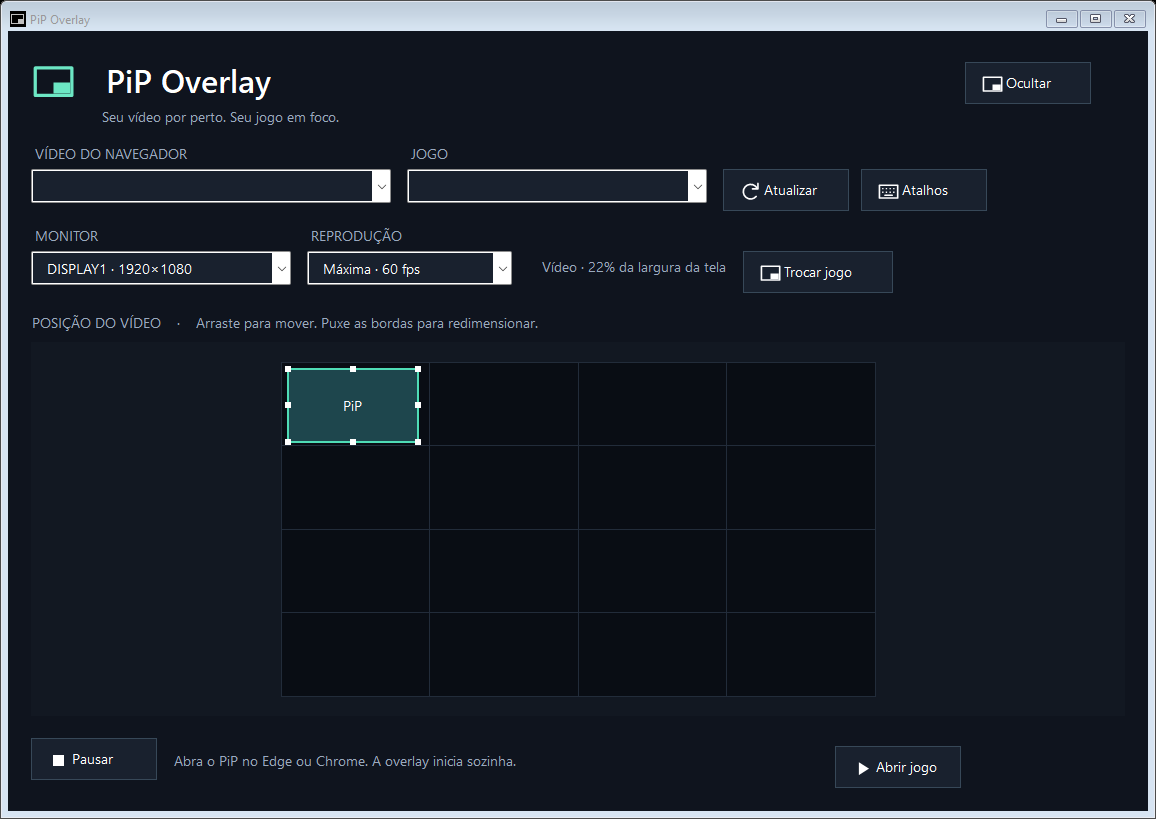
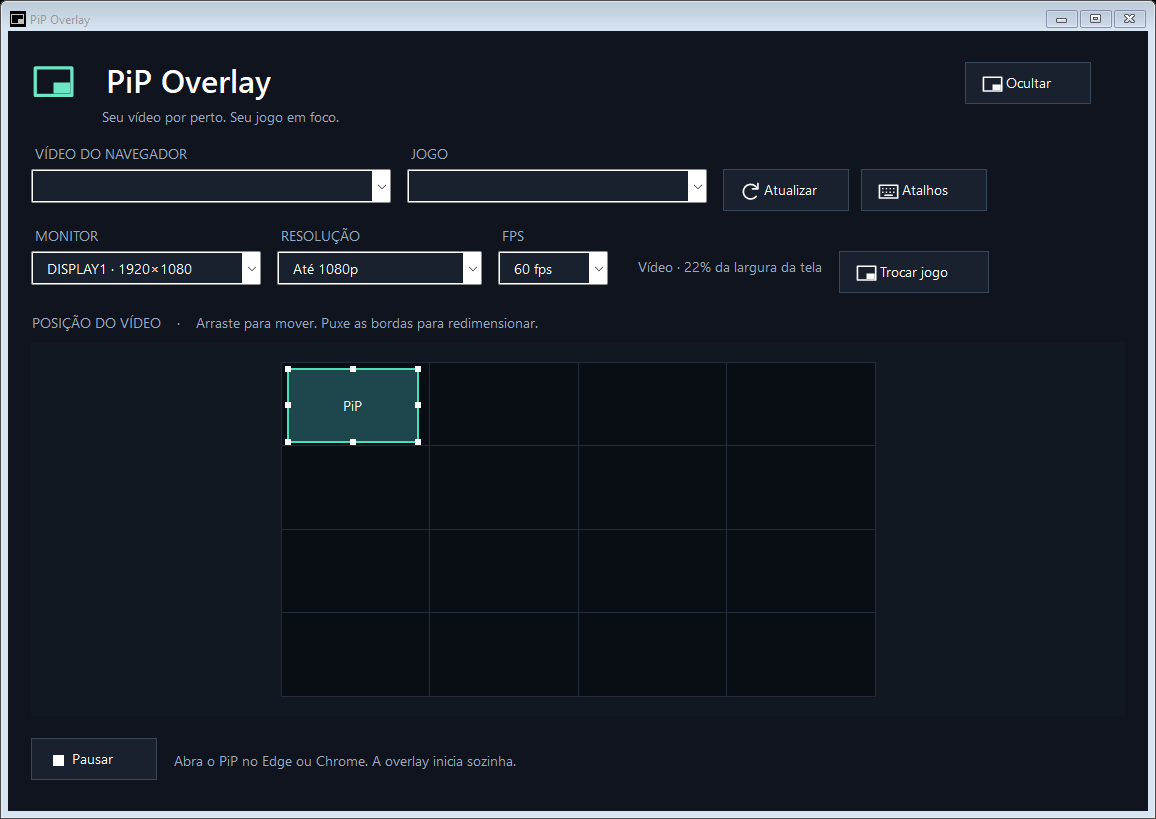
feat: separate resolution and frame rate and adopt MIT license

Changed region(s): [[0.1869, 0.2747, 0.8097, 0.3663], [0.7163, 0.9158, 0.8097, 0.9463]]

diff --git a/src/MainForm.cs b/src/MainForm.cs
@@ -3,8 +3,9 @@ namespace PipOverlay;
 internal sealed class MainForm : Form
 {
     readonly ComboBox sources=new(){DropDownStyle=ComboBoxStyle.DropDownList,Width=360};
-    readonly ComboBox monitors=new(){DropDownStyle=ComboBoxStyle.DropDownList,Width=260};
-    readonly ComboBox quality=new(){DropDownStyle=ComboBoxStyle.DropDownList,Width=165};
+    readonly ComboBox monitors=new(){DropDownStyle=ComboBoxStyle.DropDownList,Width=220};
+    readonly ComboBox quality=new(){DropDownStyle=ComboBoxStyle.DropDownList,Width=180};
+    readonly ComboBox frameRate=new(){DropDownStyle=ComboBoxStyle.DropDownList,Width=90};
     readonly ComboBox targets=new(){DropDownStyle=ComboBoxStyle.DropDownList,Width=260};
     readonly LayoutEditor editor=new(){Dock=DockStyle.Fill};
     readonly Label status=new(){AutoSize=true,ForeColor=Color.Silver},dimensions=new(){AutoSize=true,ForeColor=Color.Silver};
@@ -42,11 +43,12 @@ internal sealed class MainForm : Form
         var header=new TableLayoutPanel{Dock=DockStyle.Fill,ColumnCount=2,RowCount=1};header.ColumnStyles.Add(new(SizeType.Absolute,64));header.ColumnStyles.Add(new(SizeType.Percent,100));
         header.Controls.Add(new PictureBox{Image=UiTheme.Icon("pip",UiTheme.Accent,44),Size=new Size(48,48),Margin=new Padding(0,6,0,0)});
         var heading=new FlowLayoutPanel{Dock=DockStyle.Fill,FlowDirection=FlowDirection.TopDown,WrapContents=false};heading.Controls.Add(new Label{Text="PiP Overlay",AutoSize=true,Font=new Font("Segoe UI Semibold",24),Margin=Padding.Empty});heading.Controls.Add(new Label{Text="Seu vídeo por perto. Seu jogo em foco.",AutoSize=true,ForeColor=UiTheme.Muted,Margin=new Padding(0,5,0,0)});header.Controls.Add(heading);layout.Controls.Add(header,0,0);
-        foreach(var box in new[]{sources,targets,monitors,quality})UiTheme.Combo(box);
+        foreach(var box in new[]{sources,targets,monitors,quality,frameRate})UiTheme.Combo(box);
         var toolbar=new FlowLayoutPanel{Dock=DockStyle.Fill,WrapContents=false};toolbar.Controls.Add(UiTheme.Field("VÍDEO DO NAVEGADOR",sources,360));toolbar.Controls.Add(UiTheme.Field("JOGO",targets,300));
         var refresh=new Button{AccessibleName="Atualizar vídeos e jogos"};UiTheme.Button(refresh,"Atualizar","refresh");refresh.Margin=new Padding(0,25,0,0);refresh.Click+=(_,_)=>{automatic.Reset();Discover();};toolbar.Controls.Add(refresh);layout.Controls.Add(toolbar,0,1);
-        quality.Items.AddRange(new object[]{"Máxima · 60 fps","Equilibrada · 30 fps","Econômica · 15 fps"});quality.SelectedIndex=settings.Quality=="economy"?2:settings.Quality=="balanced"?1:0;
-        var options=new FlowLayoutPanel{Dock=DockStyle.Fill,WrapContents=false};options.Controls.Add(UiTheme.Field("MONITOR",monitors,260));options.Controls.Add(UiTheme.Field("REPRODUÇÃO",quality,205));dimensions.Margin=new Padding(10,31,0,0);dimensions.ForeColor=UiTheme.Muted;options.Controls.Add(dimensions);layout.Controls.Add(options,0,2);
+        quality.Items.AddRange(new object[]{"Até 1080p","Até 720p","Até 480p","Adaptar ao tamanho"});quality.SelectedIndex=settings.Validated().Resolution switch{"720p"=>1,"480p"=>2,"auto"=>3,_=>0};
+        frameRate.Items.AddRange(new object[]{"60 fps","30 fps","15 fps"});frameRate.SelectedIndex=settings.FramesPerSecond==15?2:settings.FramesPerSecond==30?1:0;
+        var options=new FlowLayoutPanel{Dock=DockStyle.Fill,WrapContents=false};options.Controls.Add(UiTheme.Field("MONITOR",monitors,230));options.Controls.Add(UiTheme.Field("RESOLUÇÃO",quality,205));options.Controls.Add(UiTheme.Field("FPS",frameRate,110));dimensions.Margin=new Padding(10,31,0,0);dimensions.ForeColor=UiTheme.Muted;options.Controls.Add(dimensions);layout.Controls.Add(options,0,2);
         layout.Controls.Add(new Label{Text="POSIÇÃO DO VÍDEO    ·    Arraste para mover. Puxe as bordas para redimensionar.",AutoSize=true,ForeColor=UiTheme.Muted,Margin=new Padding(0,12,0,0)},0,3);layout.Controls.Add(editor,0,4);
         var footer=new FlowLayoutPanel{Dock=DockStyle.Fill,WrapContents=false,Padding=new Padding(0,16,0,0)};UiTheme.Button(start,"Retomar","play",true);UiTheme.Button(stop,"Pausar","stop");status.AutoSize=false;status.Size=new Size(650,44);status.TextAlign=ContentAlignment.MiddleLeft;status.ForeColor=UiTheme.Muted;footer.Controls.Add(start);footer.Controls.Add(stop);footer.Controls.Add(status);layout.Controls.Add(footer,0,5);
         toolbar.Visible=options.Visible=false;layout.RowStyles[1].Height=0;layout.RowStyles[2].Height=0;
@@ -58,7 +60,8 @@ internal sealed class MainForm : Form
         editor.LayoutChanged+=box=>{settings=settings with {X=box.X,Y=box.Y,Width=box.Width,Height=box.Height};Apply();};
         monitors.SelectedIndexChanged+=(_,_)=>{Stop("");automatic.Reset();UpdateCanvas();Discover();};
         sources.SelectedIndexChanged+=(_,_)=>{if(refreshing)return;Stop("");automatic.Reset();PreviewSelection();Discover();};
-        quality.SelectedIndexChanged+=(_,_)=>{settings=settings with {Quality=quality.SelectedIndex==2?"economy":quality.SelectedIndex==1?"balanced":"maximum",FramesPerSecond=quality.SelectedIndex==2?15:quality.SelectedIndex==1?30:60};Apply();};
+        quality.SelectedIndexChanged+=(_,_)=>{settings=settings with {Resolution=quality.SelectedIndex switch{1=>"720p",2=>"480p",3=>"auto",_=>"1080p"}};Apply();};
+        frameRate.SelectedIndexChanged+=(_,_)=>{settings=settings with {FramesPerSecond=frameRate.SelectedIndex==2?15:frameRate.SelectedIndex==1?30:60};Apply();};
         start.Click+=(_,_)=>ResumeAutomatic();stop.Click+=(_,_)=>PauseAutomatic();
         pulse.Tick+=(_,_)=>Poll();save.Tick+=(_,_)=>{save.Stop();Save();};
         targets.SelectedIndexChanged+=(_,_)=>{if(refreshing)return;Stop("");automatic.Reset();Discover();};
@@ -68,8 +71,9 @@ internal sealed class MainForm : Form
         tray.Icon=Icon;tray.Text="PiP Overlay · automático";tray.Visible=!designPreview;
         VisibleChanged+=(_,_)=>{if(!Visible)editor.DetachSource();else PreviewSelection();};
         var menu=new ContextMenuStrip();menu.Items.Add("Ajustar posição e tamanho",null,(_,_)=>ShowEditor());menu.Items.Add("Retomar",null,(_,_)=>ResumeAutomatic());menu.Items.Add("Pausar",null,(_,_)=>PauseAutomatic());menu.Items.Add("Sair",null,(_,_)=>{exiting=true;Close();});tray.ContextMenuStrip=menu;tray.DoubleClick+=(_,_)=>ShowEditor();
-        var launchGame=new Button{AccessibleName="Abrir seu jogo com PiP"};UiTheme.Button(launchGame,"Abrir jogo","play");launchGame.Margin=new Padding(12,8,0,0);footer.Controls.Add(launchGame);launchGame.Click+=async (_,_)=>{try{if(!File.Exists(settings.GameExecutable)){using var picker=new OpenFileDialog{Filter="Jogo Windows (*.exe)|*.exe",Title="Escolha o executável do seu jogo"};if(picker.ShowDialog(this)!=DialogResult.OK)return;settings.GameExecutable=picker.FileName;Save();}launchGame.Enabled=false;status.Text="Preparando seu jogo…";await GameLauncher.Launch(settings.GameExecutable);automatic.Reset();Discover();}catch(Exception ex){status.Text=ex.Message;}finally{launchGame.Enabled=true;}};
-        var chooseGame=new Button();UiTheme.Button(chooseGame,"Trocar jogo","pip");chooseGame.Width=150;chooseGame.Margin=new Padding(12,25,0,0);options.Controls.Add(chooseGame);chooseGame.Click+=(_,_)=>{using var picker=new OpenFileDialog{Filter="Jogo Windows (*.exe)|*.exe"};if(picker.ShowDialog(this)==DialogResult.OK){settings.GameExecutable=picker.FileName;Save();status.Text="Jogo selecionado. Clique em Abrir jogo.";}};
+        var launchGame=new ToolStripMenuItem("Iniciar jogo configurado");menu.Items.Insert(0,launchGame);
+        launchGame.Click+=async (_,_)=>{try{if(!File.Exists(settings.GameExecutable)){ShowEditor();using var picker=new OpenFileDialog{Filter="Jogo Windows (*.exe)|*.exe",Title="Escolha o executável do seu jogo"};if(picker.ShowDialog(this)!=DialogResult.OK)return;settings.GameExecutable=picker.FileName;Save();}launchGame.Enabled=false;status.Text="Preparando seu jogo…";await GameLauncher.Launch(settings.GameExecutable);automatic.Reset();Discover();}catch(Exception ex){ShowEditor();status.Text=ex.Message;}finally{launchGame.Enabled=true;}};
+        var chooseGame=new Button();UiTheme.Button(chooseGame,"Trocar jogo","pip");chooseGame.Width=150;chooseGame.Margin=new Padding(12,25,0,0);options.Controls.Add(chooseGame);chooseGame.Click+=(_,_)=>{using var picker=new OpenFileDialog{Filter="Jogo Windows (*.exe)|*.exe"};if(picker.ShowDialog(this)==DialogResult.OK){settings.GameExecutable=picker.FileName;Save();status.Text="Jogo selecionado. A opção de iniciar fica no ícone perto do relógio.";}};
         var shortcuts=new Button{AccessibleName="Configurar atalhos de teclado"};UiTheme.Button(shortcuts,"Atalhos","keyboard");shortcuts.Margin=new Padding(12,25,0,0);toolbar.Controls.Add(shortcuts);shortcuts.Click+=(_,_)=>ConfigureShortcuts();
         Shown+=(_,_)=>{if(designPreview)return;hotkeys=new Hotkeys(Handle);Discover();if(!hotkeys.Apply(new(settings.StartShortcut),new(settings.StopShortcut),out var error))status.Text=error;};
         if(designPreview){save.Stop();exiting=true;ShowInTaskbar=false;StartPosition=FormStartPosition.Manual;Location=new Point(-20000,-20000);}
@@ -95,13 +99,13 @@ internal sealed class MainForm : Form
             if(automatic.TakeAttempt(source==null?null:$"{source.Handle}:{source.ProcessId}",target?.Pid,false))Start();
             else if(!automatic.Enabled)status.Text="Pausado · clique em Retomar quando quiser.";
             else if(source==null)status.Text="Abra o vídeo em PiP no Edge ou Chrome.";
-            else if(target==null)status.Text="Vídeo pronto · clique em Abrir jogo.";
+            else if(target==null)status.Text="Vídeo pronto · aguardando seu jogo.";
         }finally{refreshing=false;}
     }
     protected override void OnHandleDestroyed(EventArgs e){hotkeys?.Dispose();hotkeys=null;base.OnHandleDestroyed(e);}
     Screen SelectedScreen=>((MonitorItem?)monitors.SelectedItem)?.Screen??Screen.AllScreens[0];
     void UpdateCanvas(){editor.MonitorSize=SelectedScreen.Bounds.Size;settings=settings with {Monitor=SelectedScreen.DeviceName};var b=LayoutMath.Constrain(new(settings.X,settings.Y,settings.Width,settings.Height),editor.MonitorSize,editor.Aspect);settings=settings with{X=b.X,Y=b.Y,Width=b.Width,Height=b.Height};editor.Video=b;Apply();}
-    void Apply(){try{lease?.EnsureResolution(settings.Quality=="maximum"?new Size(1920,1080):null);}catch(System.ComponentModel.Win32Exception ex){Fail(ex.Message);}editor.Video=new(settings.X,settings.Y,settings.Width,settings.Height);editor.Invalidate();session?.Apply(settings);
+    void Apply(){try{lease?.EnsureResolution(settings.SourceResolution);}catch(System.ComponentModel.Win32Exception ex){Fail(ex.Message);}editor.Video=new(settings.X,settings.Y,settings.Width,settings.Height);editor.Invalidate();session?.Apply(settings);
         dimensions.Text=$"Vídeo · {100.0*settings.Width/editor.MonitorSize.Width:F0}% da largura da tela";
         save.Stop();save.Start();}
     void Save(){try{settings.Save(settingsPath);}catch(Exception e)when(e is IOException or UnauthorizedAccessException){status.Text="Não foi possível salvar: "+e.Message;}}
@@ -110,8 +114,8 @@ internal sealed class MainForm : Form
     void RefreshTargets(){Stop("");targets.Items.Clear();targets.Items.AddRange(GameLauncher.Targets().Concat(RenderTarget.Find().Where(x=>x.Name=="DigimonMasters")).DistinctBy(x=>x.Pid).ToArray());if(targets.Items.Count>0)targets.SelectedIndex=0;}
     void Start(){if(sources.SelectedItem is not WindowSource source){status.Text="Abra o vídeo em PiP no Edge ou Chrome.";return;}connectionFailed=false;Stop("");try{
         if(!source.Exists||Native.IsIconic(source.Handle))throw new InvalidOperationException("Restaure o PiP antes de iniciar.");
-        if(targets.SelectedItem is not RenderTarget target)throw new InvalidOperationException("Abra seu jogo e clique em Atualizar.");
-        lease=new SourceLease(source,settings.Quality=="maximum"?new Size(1920,1080):null);
+        if(targets.SelectedItem is not RenderTarget target)throw new InvalidOperationException("Abra seu jogo. Para novos renderizadores, use o menu do ícone perto do relógio.");
+        lease=new SourceLease(source,settings.SourceResolution);
         session=new GpuVideoSession(source,settings,editor.MonitorSize,target);editor.Aspect=(double)session.SourceSize.Width/session.SourceSize.Height;UpdateCanvas();editor.AttachSource(source.Handle);
         active=source;activeTarget=target.Pid;start.Enabled=false;stop.Enabled=true;elapsed.Restart();lastFrames=0;lastTick=Environment.TickCount64;pulse.Start();status.Text="Conectando ao vídeo…";
     }catch(Exception e){Fail(e.Message);}}

diff --git a/src/QualityTests.cs b/src/QualityTests.cs
@@ -3,10 +3,20 @@ internal static class QualityTests
 {
     internal static int Run(string report){
         var lines=new List<string>();int failures=0;void Check(string name,bool pass){lines.Add($"{(pass?"PASS":"FAIL")} {name}");if(!pass)failures++;}
-        Check("Maximum allows 60 fps",new Settings().Validated().FramesPerSecond==60);
-        Check("Balanced limits 30 fps",new Settings{Quality="balanced"}.Validated().FramesPerSecond==30);
-        Check("Economy limits 15 fps",new Settings{Quality="economy"}.Validated().FramesPerSecond==15);
-        Check("Unknown quality uses consistent maximum defaults",new Settings{Quality="invalid"}.Validated() is {Quality:"maximum",FramesPerSecond:60});
+        foreach(var resolution in new[]{"1080p","720p","480p","auto"})foreach(int fps in new[]{15,30,60}){
+            var value=new Settings{Resolution=resolution,FramesPerSecond=fps,Quality="economy"}.Validated();
+            var expected=resolution switch{"1080p"=>new Size(1920,1080),"720p"=>new Size(1280,720),"480p"=>new Size(854,480),_=>new Size(448,252)};
+            Check($"Independent {resolution} / {fps}",value.Resolution==resolution&&value.FramesPerSecond==fps&&value.CaptureResolution==expected);
+        }
+        Check("Invalid values recover",new Settings{Resolution="invalid",FramesPerSecond=0}.Validated() is {Resolution:"1080p",FramesPerSecond:30});
+        var legacy=System.Text.Json.JsonSerializer.Deserialize<Settings>("{\"Quality\":\"balanced\",\"FramesPerSecond\":30}")!.Validated();
+        Check("Legacy balanced preserves 30 fps and adaptive resolution",legacy is {Resolution:"auto",FramesPerSecond:30});
+        Check("Legacy maximum preserves resolution",new Settings{Quality="maximum",FramesPerSecond=60}.Validated() is {Resolution:"1080p",FramesPerSecond:60});
+        string folder=Path.Combine(Path.GetDirectoryName(Path.GetFullPath(report))!,"settings-test-"+Guid.NewGuid().ToString("N"));
+        string path=Path.Combine(folder,"settings.json");
+        new Settings{Resolution="1080p",FramesPerSecond=30}.Save(path);
+        Check("1080p30 persists",Settings.Load(path) is {Resolution:"1080p",FramesPerSecond:30});
+        File.Delete(path);Directory.Delete(folder);
         using var source=new Form{Text="PiP quality test — temporary",ClientSize=new Size(640,360),StartPosition=FormStartPosition.Manual,Location=new Point(120,120),ShowInTaskbar=false};
         source.Show();Application.DoEvents();Native.GetWindowRect(source.Handle,out var before);
         var window=new WindowSource(source.Handle,(uint)Environment.ProcessId,"Test","Temporary",true);

diff --git a/src/Settings.cs b/src/Settings.cs
@@ -14,7 +14,8 @@ internal sealed record Settings
     public int Height { get; set; } = 236;
     public int Opacity { get; set; } = 100;
     public int FramesPerSecond { get; set; } = 60;
-    public string Quality {get;set;} = "maximum";
+    public string Quality {get;set;} = "maximum"; // Legacy preference, used only when migrating.
+    public string? Resolution {get;set;}
     public string GameExecutable {get;set;} = "";
     public int CropLeft { get; set; }
     public int CropTop { get; set; }
@@ -22,12 +23,17 @@ internal sealed record Settings
     public int CropBottom { get; set; }
 
     internal Settings Validated() => this with {
-        X=Math.Clamp(X,0,32000), Y=Math.Clamp(Y,0,32000),FramesPerSecond=Quality=="economy"?15:Quality=="balanced"?30:60,
-        Quality=Quality is "balanced" or "economy"?Quality:"maximum",
+        X=Math.Clamp(X,0,32000), Y=Math.Clamp(Y,0,32000),FramesPerSecond=FramesPerSecond is 15 or 30 or 60?FramesPerSecond:30,
+        Resolution=Resolution is "1080p" or "720p" or "480p" or "auto"?Resolution:Resolution==null&&Quality is "balanced" or "economy"?"auto":"1080p",
         Width=Math.Clamp(Width,120,7680),Height=Math.Clamp(Height,68,4320),Opacity=Math.Clamp(Opacity,10,100),
         CropLeft=Math.Clamp(CropLeft,0,16000),CropTop=Math.Clamp(CropTop,0,16000),
         CropRight=Math.Clamp(CropRight,0,16000),CropBottom=Math.Clamp(CropBottom,0,16000)
     };
+    internal Size? SourceResolution => Validated().Resolution switch {
+        "1080p" => new Size(1920,1080), "720p" => new Size(1280,720),
+        "480p" => new Size(854,480), _ => null
+    };
+    internal Size CaptureResolution => SourceResolution ?? new Size(Math.Min(1920,((Width+63)/64)*64),Math.Min(1080,((Height+35)/36)*36));
     internal Rectangle Bounds(Rectangle screen)
     {
         var s=Validated();

diff --git a/installer/Program.cs b/installer/Program.cs
@@ -31,8 +31,8 @@ internal static class Program
         using var form=new Form{Text="Instalar PiP Overlay",ClientSize=new Size(580,320),StartPosition=FormStartPosition.CenterScreen,FormBorderStyle=FormBorderStyle.FixedDialog,MaximizeBox=false,BackColor=Color.FromArgb(16,22,32),ForeColor=Color.White,Font=new Font("Segoe UI",10)};
         form.Icon=Icon.ExtractAssociatedIcon(Environment.ProcessPath!);
         var heading=new Label{Text="PiP Overlay",Font=new Font("Segoe UI",22,FontStyle.Bold),AutoSize=true,Location=new Point(24,20)};
-        var description=new Label{Text="Tudo em um instalador. Sem extensão ou cadastro.\nAbra seu jogo pela ferramenta e o PiP do navegador.",AutoSize=true,Location=new Point(26,76)};
-        var path=new TextBox{Text=Path.Combine(Environment.GetFolderPath(Environment.SpecialFolder.MyDocuments),"PiP Overlay 0.11"),Location=new Point(26,139),Width=410};
+        var description=new Label{Text="Tudo em um instalador. Sem extensão ou cadastro.\nAbra o PiP do navegador para começar.",AutoSize=true,Location=new Point(26,76)};
+        var path=new TextBox{Text=Path.Combine(Environment.GetFolderPath(Environment.SpecialFolder.MyDocuments),"PiP Overlay 0.11.1"),Location=new Point(26,139),Width=410};
         var browse=new Button{Text="Escolher…",Location=new Point(445,137),Size=new Size(108,32)};
         var status=new Label{Text="Escolha uma pasta nova. Para remover, basta excluir essa pasta.\nNão é necessário fechar os jogos para abrir a ferramenta.",Location=new Point(26,184),Size=new Size(530,58)};
         var install=new Button{Text="Instalar",Location=new Point(393,260),Size=new Size(160,38),BackColor=Color.FromArgb(91,210,187),ForeColor=Color.Black,FlatStyle=FlatStyle.Flat};

diff --git a/src/GpuVideoSession.cs b/src/GpuVideoSession.cs
@@ -89,7 +89,7 @@ internal sealed class GpuVideoSession : IDisposable
             while(!cancel.IsCancellationRequested) {
                 long started=Environment.TickCount64;Settings current;Size screen;lock(gate){current=settings;screen=monitor;}
                 // Quantize resize requests to avoid reallocating textures for each mouse pixel.
-                PipResolution(producer,current.Quality=="maximum"?1920u:(uint)Math.Min(1920,((current.Width+63)/64)*64),current.Quality=="maximum"?1080u:(uint)Math.Min(1080,((current.Height+35)/36)*36));
+                var resolution=current.CaptureResolution;PipResolution(producer,(uint)resolution.Width,(uint)resolution.Height);
                 PipLayout(producer,(float)current.X/screen.Width,(float)current.Y/screen.Height,(float)current.Width/screen.Width,(float)current.Height/screen.Height);
                 var next=poolSize;
                 using(var frame=pool.TryGetNextFrame())if(frame!=null) {

diff --git a/README.md b/README.md
@@ -6,6 +6,7 @@
   <a href="https://github.com/MaiconDAS/pip-overlay/releases"><img alt="Versão" src="https://img.shields.io/github/v/release/MaiconDAS/pip-overlay?include_prereleases&amp;style=flat-square&amp;color=6ce7c4&amp;label=vers%C3%A3o" /></a>
   <img alt="Windows 10 e 11, x64" src="https://img.shields.io/badge/Windows-10%20%2F%2011%20%C2%B7%20x64-233448?style=flat-square" />
   <img alt="DirectX, OpenGL e Vulkan" src="https://img.shields.io/badge/renderiza%C3%A7%C3%A3o-DirectX%20%2F%20OpenGL%20%2F%20Vulkan-233448?style=flat-square" />
+  <a href="LICENSE"><img alt="Licença MIT" src="https://img.shields.io/badge/licen%C3%A7a-MIT-6ce7c4?style=flat-square" /></a>
   <img alt="Sem RTSS ou extensão" src="https://img.shields.io/badge/sem-RTSS%20ou%20extens%C3%A3o-233448?style=flat-square" />
 </p>
 
@@ -21,11 +22,17 @@
 
 PiP Overlay é um aplicativo para Windows que leva o Picture-in-Picture do Edge ou Chrome para dentro de jogos DirectX, OpenGL e Vulkan. Use o PiP sobre **seu jogo em fullscreen**, quando compatível com o renderizador. A imagem é desenhada pelo renderizador nativo, sem uma janela interativa sobre o jogo.
 
-Você escolhe seu jogo uma vez, usa **Abrir jogo** e abre o PiP do navegador. A ferramenta conecta o vídeo automaticamente e mantém os controles fora da partida.
+Abra o PiP do navegador. Para iniciar Jogos nas novas APIs, use **Iniciar jogo configurado** no menu do ícone da ferramenta perto do relógio; escolha o executável na primeira vez. A ferramenta conecta o vídeo automaticamente e mantém os controles fora da partida.
+
+## Mudanças na versão 0.11.1
+
+- **Resolução e FPS independentes:** escolha até 1080p, 720p, 480p ou adaptação ao tamanho, junto de 60, 30 ou 15 fps. É possível usar 1080p a 30 fps.
+- **Tela principal mais simples:** botão Abrir jogo removido. A conexão automática continua; a inicialização necessária às novas APIs fica no menu do ícone perto do relógio.
+- **Open source:** código próprio publicado sob licença MIT, mantendo as licenças das dependências.
 
 ## Mudanças na versão 0.11
 
-- **Mais nitidez:** captura em resolução nativa até 1080p no modo Máxima, evitando redução intermediária quando a fonte permite.
+- **Mais nitidez:** captura em resolução nativa até 1080p no modo Até 1080p, evitando redução intermediária quando a fonte permite.
 - **Mais renderizadores:** DirectX 11, DirectX 12 e OpenGL com motor incluído; Vulkan com camada própria, em 32 e 64 bits.
 - **Abertura de Jogos:** botão **Abrir jogo**, seleção salva e reconexão ao mesmo processo após reabrir a ferramenta.
 - **Controle de consumo:** opções de até 60, 30 e 15 fps; resolução e taxa efetiva no status.
@@ -38,7 +45,7 @@ Consulte o [histórico completo](CHANGELOG.md), a [compatibilidade com Jogos](do
 1. Baixe **`Instalar-PiP-Overlay.exe`** em [Releases](https://github.com/MaiconDAS/pip-overlay/releases).
 2. Execute o instalador, escolha uma pasta nova e conclua a instalação. O .NET necessário já está incluído.
 3. Deixe o aplicativo aberto e abra o vídeo em PiP no **Microsoft Edge** ou **Google Chrome**.
-4. Clique em **Abrir jogo**. Na primeira vez, escolha o executável do jogo. O vídeo conecta automaticamente.
+4. A conexão com jogos reconhecidos é automática. Para as novas APIs, clique com o botão direito no ícone PiP Overlay perto do relógio e escolha **Iniciar jogo configurado**. Na primeira vez, selecione o executável.
 
 **Não é necessário instalar extensão, RTSS ou criar uma conta de desenvolvedor.** O PiP normal do navegador continua sendo a fonte de vídeo e precisa permanecer aberto, sem minimizar.
 
@@ -57,7 +64,7 @@ O aplicativo não configura inicialização automática do Windows. Depois de re
 
 <p align="center"><img src="docs/assets/editor.png" alt="Editor do PiP Overlay com área proporcional ao monitor, controles de redimensionamento e botão Pausar" width="960" /></p>
 
-Em **Ajustes**, escolha **Máxima · 60 fps** para preservar a resolução capturada até 1080p. A ferramenta amplia temporariamente o PiP de origem e restaura seu tamanho ao parar. O navegador pode impor um limite menor; a resolução real aparece no status.
+Em **Ajustes**, escolha **Resolução: Até 1080p** e **FPS: 30 fps** para priorizar nitidez com menos atualizações. Os controles são independentes: alterar o FPS não muda a resolução. A ferramenta amplia temporariamente o PiP de origem e restaura seu tamanho ao parar. O navegador pode impor um limite menor; a resolução real aparece no status.
 
 A posição e o tamanho são proporcionais ao monitor selecionado. A interação com mouse e teclado fica no aplicativo; o renderizador não cria controles clicáveis dentro do jogo.
 
@@ -67,7 +74,7 @@ A posição e o tamanho são proporcionais ao monitor selecionado. A interação
 - **Pausa persistente**, sem reiniciar a overlay contra a escolha do usuário.
 - **Editor visual** com arraste e redimensionamento proporcional.
 - **Atalhos configuráveis** para retomar e pausar.
-- **Captura até 1920 × 1080**, sem redução intermediária no modo Máxima, limitada pela fonte.
+- **Captura até 1920 × 1080**, sem redução intermediária no modo Até 1080p, limitada pela fonte.
 - **Até 60 fps**, com alternativas de 30 e 15 fps.
 - **Um instalador independente**, sem downloads extras durante a instalação.
 
@@ -81,7 +88,7 @@ A posição e o tamanho são proporcionais ao monitor selecionado. A interação
 | DirectX 11 / DirectX 12 / OpenGL | Implementados e testados em hosts próprios, em 32 e 64 bits |
 | Jogos | Inicialização do executável escolhido; launchers que criam outro processo e proteções podem impedir a conexão |
 | Vulkan | Camada própria, testada em 32 e 64 bits; inicialmente SDR RGBA/BGRA UNORM de 8 bits |
-| Distribuição | Projeto experimental, versão 0.11.0 |
+| Distribuição | Projeto experimental, versão 0.11.1 |
 
 Os testes automatizados cobrem lógica de conexão, atalhos e geometria. A renderização também foi exercitada em um aplicativo Direct3D 9 próprio, incluindo fullscreen. Isso **não equivale a uma certificação de compatibilidade com todas as versões do jogo ou drivers**. D3D11, D3D12, OpenGL e Vulkan passaram por verificações de pixels em hosts próprios; a captura nativa preservou os pixels de padrões em 720p e 1080p. Veja [os resultados e limites](docs/VALIDATION-0.11.md).
 
@@ -91,11 +98,11 @@ Vídeos protegidos podem não ser capturáveis. O projeto não altera proteçõe
 
 ## Desempenho, sem promessas de custo zero
 
-O navegador continua decodificando o vídeo. Máxima preserva a resolução; os modos de economia reduzem na GPU. Os quadros seguem por leitura assíncrona e memória compartilhada. Não há codificação nem gravação de imagens por quadro.
+O navegador continua decodificando o vídeo. O limite de resolução controla o tamanho capturado; o FPS controla a frequência das atualizações. Resoluções menores são reduzidas na GPU. Os quadros seguem por leitura assíncrona e memória compartilhada. Não há codificação nem gravação de imagens por quadro.
 
-Ainda existe transferência pela CPU e consumo de GPU. Um overlay maior custa mais. O modo Máxima custa mais que os modos reduzidos. **Ainda não há comparação controlada do impacto desta versão em jogos reais**. Em repouso, a busca ocorre a cada 1,5 segundo; seu consumo ainda não foi medido separadamente.
+Ainda existe transferência pela CPU e consumo de GPU. Um overlay maior custa mais. O modo Até 1080p custa mais que os modos reduzidos. **Ainda não há comparação controlada do impacto desta versão em jogos reais**. Em repouso, a busca ocorre a cada 1,5 segundo; seu consumo ainda não foi medido separadamente.
 
-Para uma máquina mais limitada, comece com um vídeo pequeno e o modo **Econômico**. Saiba mais em [arquitetura e validação](docs/ARCHITECTURE.md).
+Para uma máquina mais limitada, comece com um vídeo pequeno e **30 fps**, ajustando a resolução separadamente. Saiba mais em [arquitetura e validação](docs/ARCHITECTURE.md).
 
 ## Desenvolvimento
 
@@ -112,7 +119,7 @@ O instalador é gerado em `dist/installer/`. Consulte [DEVELOPMENT.md](docs/DEVE
 
 Encontrou um problema? Abra uma [issue](https://github.com/MaiconDAS/pip-overlay/issues/new/choose) com a versão do aplicativo, navegador, Windows e passos para reproduzir. As orientações estão em [CONTRIBUTING.md](CONTRIBUTING.md).
 
-O projeto ainda não definiu uma licença de código aberto para o código próprio. As licenças e atribuições das dependências estão em [THIRD_PARTY_NOTICES.md](THIRD_PARTY_NOTICES.md).
+O código próprio do projeto é **open source sob a [licença MIT](LICENSE)**. Você pode usar, modificar e redistribuir, inclusive comercialmente, preservando o aviso de copyright e a licença. As licenças e atribuições das dependências estão em [THIRD_PARTY_NOTICES.md](THIRD_PARTY_NOTICES.md).
 
 ---
 

diff --git a/docs/ARCHITECTURE.md b/docs/ARCHITECTURE.md
@@ -4,9 +4,9 @@ A captura usa Windows Graphics Capture e D3D11, com três buffers de leitura e m
 
 ## Qualidade
 
-Máxima preserva a resolução capturada até 1920 × 1080 e permite até 60 fps. Quando tamanho e formato BGRA coincidem, uma cópia direta substitui a filtragem. O PiP do navegador é ampliado temporariamente, sem ativação, e restaurado ao parar. O navegador pode limitar esse tamanho; o status mostra a resolução efetiva. Selecionar 1080p no site não garante uma janela PiP com 1920 × 1080 pixels.
+Resolução e FPS são independentes. Os limites de captura são 1920 × 1080, 1280 × 720, 854 × 480 ou adaptação ao tamanho do overlay. A frequência pode ser 60, 30 ou 15 fps. Quando tamanho e formato BGRA coincidem, uma cópia direta substitui a filtragem. O PiP do navegador é ampliado temporariamente, sem ativação, e restaurado ao parar. O navegador pode limitar esse tamanho; o status mostra a resolução efetiva. Selecionar 1080p no site não garante uma janela PiP com 1920 × 1080 pixels.
 
-Equilibrada e Econômica usam 30 e 15 fps e reduzem a captura ao tamanho do overlay. Máxima pode consumir mais memória e largura de banda.
+Alterar apenas o FPS mantém o limite de resolução e o tamanho solicitado à janela de origem. A opção Adaptar ao tamanho quantiza a resolução para reduzir realocações durante o arraste. Resoluções maiores podem consumir mais memória e largura de banda.
 
 ## Renderizadores
 
@@ -16,7 +16,7 @@ Equilibrada e Econômica usam 30 e 15 fps e reduzem a captura ao tamanho do over
 
 ## Inicialização
 
-**Abrir jogo** inicia o executável escolhido. O auxiliar da mesma arquitetura prepara esse processo antes do ponto de entrada. Arquivos e configurações ficam em `data/games` na instalação. Não são escritos arquivos na pasta do jogo, Registro, serviços ou variáveis globais. A camada Vulkan é habilitada somente no ambiente do processo filho.
+**Iniciar jogo configurado**, no menu do ícone perto do relógio, inicia o executável escolhido. O auxiliar da mesma arquitetura prepara esse processo antes do ponto de entrada. Arquivos e configurações ficam em `data/games` na instalação. Não são escritos arquivos na pasta do jogo, Registro, serviços ou variáveis globais. A camada Vulkan é habilitada somente no ambiente do processo filho.
 
 Pausar torna os renderizadores passivos; bibliotecas permanecem carregadas até o jogo terminar. A descoberta do PiP ocorre a cada 1,5 segundo quando não há sessão. Uma falha não gera tentativas infinitas.
 

diff --git a/docs/COMPATIBILITY.md b/docs/COMPATIBILITY.md
@@ -1,6 +1,6 @@
 # Compatibilidade com Jogos
 
-Estado da versão **0.11.0**, experimental. Suporte ao renderizador não significa que todos os jogos que usam essa API sejam compatíveis.
+Estado da versão **0.11.1**, experimental. Suporte ao renderizador não significa que todos os jogos que usam essa API sejam compatíveis.
 
 | Componente | Suporte e validação |
 | --- | --- |
@@ -20,7 +20,7 @@ Estado da versão **0.11.0**, experimental. Suporte ao renderizador não signifi
 
 ## Como iniciar Jogos
 
-Abra o PiP no navegador e use **Abrir jogo** na ferramenta. Selecione o executável na primeira vez. A seleção fica salva. A conexão com o vídeo é automática quando a fonte e o renderizador estão disponíveis.
+Abra o PiP no navegador e use **Iniciar jogo configurado** no menu do ícone da ferramenta perto do relógio. Selecione o executável na primeira vez. A seleção fica salva. A conexão com o vídeo é automática quando a fonte e o renderizador estão disponíveis.
 
 Launchers que criam outro processo e proteções do jogo podem impedir a conexão. Não há tentativa de contornar essas proteções. Vídeos protegidos também podem não ser capturáveis.
 

diff --git a/docs/VALIDATION-0.11.1.md b/docs/VALIDATION-0.11.1.md
@@ -1,0 +1,13 @@
+# Validação 0.11.1
+
+- Testes de conexão, atalhos e geometria aprovados.
+- 19 verificações de resolução/FPS, migração, persistência e restauração da fonte aprovadas.
+- As 12 combinações entre quatro limites de resolução e três taxas de quadros mantêm os dois parâmetros independentes.
+- 1080p a 30 fps preservado após salvar e carregar as preferências.
+- Preferências antigas de resolução adaptativa e FPS preservadas.
+- Interface inspecionada com os controles separados e sem botão Abrir jogo na tela principal.
+- Renderizadores nativos não foram modificados nesta atualização. Os testes gráficos da versão 0.11 continuam documentados em VALIDATION-0.11.md; não foram repetidos como se fossem novos testes de jogos.
+
+As piscadas relatadas a 60 fps ainda não receberam uma correção específica nesta versão. Selecionar 30 fps agora não reduz automaticamente a resolução. O tamanho efetivamente capturado continua limitado pelo navegador e pela fonte.
+
+Instalador: 493 arquivos extraídos em pasta isolada e comparados por SHA-256 com o pacote; destino existente recusado. Licença MIT e avisos de terceiros incluídos.

diff --git a/CHANGELOG.md b/CHANGELOG.md
@@ -1,5 +1,15 @@
 # Histórico
 
+## 0.11.1 — resolução e FPS independentes; licença MIT
+
+- Resolução selecionável: até 1080p, 720p, 480p ou adaptação ao tamanho do overlay.
+- FPS selecionável separadamente: 60, 30 ou 15. Alterar o FPS não reduz a resolução.
+- Preferências anteriores migradas, preservando resolução adaptativa e FPS quando presentes.
+- Botão Abrir jogo removido da tela principal. Inicialização manual disponível somente pelo menu do ícone da bandeja.
+- Código próprio licenciado sob MIT; licença e avisos de terceiros incluídos no instalador.
+- 19 verificações de combinações, persistência, migração e restauração da janela aprovadas.
+
+Esta versão separa os controles; não inclui uma correção específica para as piscadas relatadas a 60 fps.
 ## 0.11.0 — qualidade e novos renderizadores
 
 - Captura em resolução nativa até 1080p no modo Máxima, com alvo de 60 fps; modos de 30/15 fps continuam disponíveis.

diff --git a/THIRD_PARTY_NOTICES.md b/THIRD_PARTY_NOTICES.md
@@ -4,7 +4,7 @@
 - **.NET / Windows Desktop Runtime**, Microsoft e contribuidores. O empacotamento inclui `LICENSE-DOTNET.txt`, `LICENSE-WINDOWSDESKTOP.txt` e `THIRD-PARTY-NOTICES-DOTNET.txt` dos pacotes oficiais usados na compilação.
 - **Zig 0.14.1**, ferramenta de compilação portátil obtida de https://ziglang.org/download/0.14.1/. Não é distribuída dentro do instalador do aplicativo.
 
-Os nomes de navegadores, jogos e tecnologias identificam compatibilidade; não indicam parceria ou aprovação de seus titulares. A licença do código original do PiP Overlay ainda será definida pelo mantenedor.
+Os nomes de navegadores, jogos e tecnologias identificam compatibilidade; não indicam parceria ou aprovação de seus titulares. O código original do PiP Overlay está sob a [licença MIT](LICENSE). Essa licença não substitui as licenças dos componentes de terceiros listados aqui.
 
 ## Renderizadores da versão 0.11
 

diff --git a/CONTRIBUTING.md b/CONTRIBUTING.md
@@ -12,4 +12,4 @@ Para alterações de código:
 
 Não altere configurações do Windows, políticas do navegador, serviços ou drivers para fazer um teste passar. Não adicione mecanismos para contornar proteções de jogos. Dependências devem manter suas licenças e ficar locais ao projeto sempre que possível.
 
-A licença de código próprio ainda não foi definida pelo mantenedor. Confirme as condições antes de planejar redistribuição ou contribuições extensas.
+O código próprio está sob a [licença MIT](LICENSE). Ao enviar uma contribuição, você concorda em disponibilizá-la sob essa mesma licença. Dependências de terceiros mantêm suas licenças originais.
